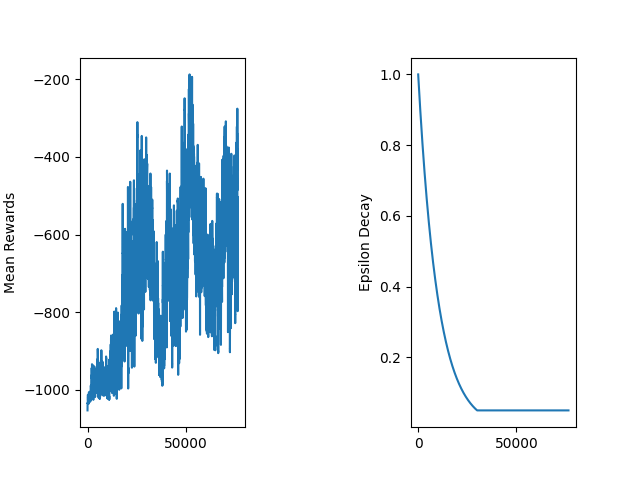
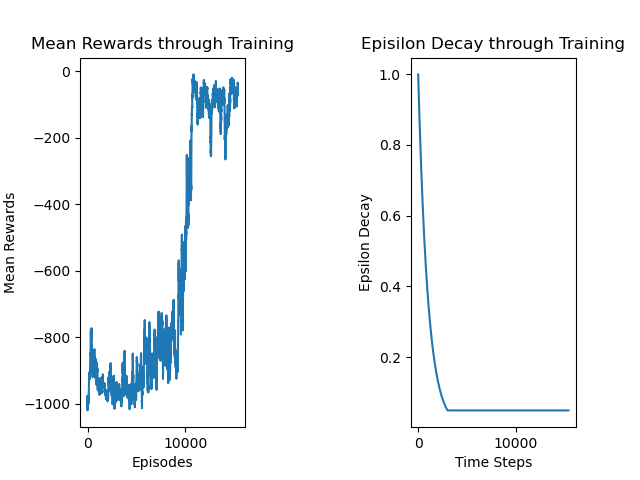
graph and log additions

diff --git a/agent.py b/agent.py
@@ -68,8 +68,12 @@ class Agent():
         self.LOG_FILE   = os.path.join(RUNS_DIR, f'{self.hyperparameter_set}.log')
         self.MODEL_FILE = os.path.join(RUNS_DIR, f'{self.hyperparameter_set}.pt')
         self.GRAPH_FILE = os.path.join(RUNS_DIR, f'{self.hyperparameter_set}.png')
+        self.GRAPH_FILE_DELAYED = os.path.join(RUNS_DIR, f'{self.hyperparameter_set}.jpg') #new
 
     def run(self, is_training=True, render=False):
+        episode_num = 0         #track number of episodes new
+        episode_sucess = 0      #track number of agent successes new
+
         if is_training:
             start_time = datetime.now()
             last_graph_update_time = start_time
@@ -117,12 +121,14 @@ class Agent():
 
             # Track best reward
             best_reward = -9999999
+            worst_reward = 9999999
         else:
             # Load learned policy
             policy_dqn.load_state_dict(torch.load(self.MODEL_FILE))
 
             # switch model to evaluation mode
             policy_dqn.eval()
+            #target_dqn.eval() new
 
         # Train INDEFINITELY, manually stop the run when you are satisfied (or unsatisfied) with the results
         for episode in itertools.count():
@@ -170,12 +176,22 @@ class Agent():
                 # Move to the next state
                 state = new_state
 
+            #if (episode_reward < -1): #new
+                #episode_reward = -1
+
             print("Episode:",episode,"-",episode_reward)    # Print out every episode and reward
 
             # Keep track of the rewards collected per episode.
             rewards_per_episode.append(episode_reward)
             if not is_training:
                 print("Reward:", episode_reward)
+                episode_num = episode_num + 1
+                if episode_reward > 0:
+                    episode_sucess = episode_sucess + 1
+                print("Success Rate: " + str(episode_sucess) + " / " + str(episode_num))
+
+
+
 
             # Save model when new best reward is obtained.
             if is_training:
@@ -185,8 +201,16 @@ class Agent():
                     with open(self.LOG_FILE, 'a') as file:
                         file.write(log_message + '\n')
 
-                    torch.save(policy_dqn.state_dict(), self.MODEL_FILE)
+                    #torch.save(policy_dqn.state_dict(), self.MODEL_FILE)
                     best_reward = episode_reward
+                
+                if episode_reward < worst_reward:
+                    log_message = f"{datetime.now().strftime(DATE_FORMAT)}: New worst reward {episode_reward:0.1f} ({(episode_reward-worst_reward)/worst_reward*100:+.1f}%) at episode {episode}"
+                    print(log_message)
+                    with open(self.LOG_FILE, 'a') as file:
+                        file.write(log_message + '\n')
+
+                    worst_reward = episode_reward
 
 
                 # Update graph every x seconds
@@ -194,6 +218,7 @@ class Agent():
                 if current_time - last_graph_update_time > timedelta(seconds=10):
                     self.save_graph(rewards_per_episode, epsilon_history)
                     last_graph_update_time = current_time
+                    #print("hi1")
 
                 # If enough experience has been collected
                 if len(memory)>self.mini_batch_size:
@@ -206,8 +231,14 @@ class Agent():
 
                     # Copy policy network to target network after a certain number of steps
                     if step_count > self.network_sync_rate:
+                        print("update step count: " + str(step_count))
+                        #self.save_graph2(rewards_per_episode, epsilon_history)
                         target_dqn.load_state_dict(policy_dqn.state_dict())
                         step_count=0
+                        #print("update") #currently updating every episode
+                        #print("hi2")
+
+                        torch.save(target_dqn.state_dict(), self.MODEL_FILE)
 
 
     def save_graph(self, rewards_per_episode, epsilon_history):
@@ -219,22 +250,55 @@ class Agent():
         for x in range(len(mean_rewards)):
             mean_rewards[x] = np.mean(rewards_per_episode[max(0, x-99):(x+1)])
         plt.subplot(121) # plot on a 1 row x 2 col grid, at cell 1
-        # plt.xlabel('Episodes')
+        plt.xlabel('Episodes')
         plt.ylabel('Mean Rewards')
         plt.plot(mean_rewards)
 
+        #plt.ylabel('Episodic Rewards') # new
+        #plt.plot(rewards_per_episode)  # new
+
+        plt.title("Mean Rewards through Training")
+
         # Plot epsilon decay (Y-axis) vs episodes (X-axis)
         plt.subplot(122) # plot on a 1 row x 2 col grid, at cell 2
-        # plt.xlabel('Time Steps')
+        plt.xlabel('Time Steps')
         plt.ylabel('Epsilon Decay')
         plt.plot(epsilon_history)
+
+        plt.title("Episilon Decay through Training")
 
         plt.subplots_adjust(wspace=1.0, hspace=1.0)
 
         # Save plots
         fig.savefig(self.GRAPH_FILE)
+        #fig.savefig(self.GRAPH_FILE_DELAYED) #new
         plt.close(fig)
 
+    #copy
+    def save_graph2(self, rewards_per_episode, epsilon_history):
+            # Save plots
+            fig = plt.figure(2)
+
+            # Plot average rewards (Y-axis) vs episodes (X-axis)
+            mean_rewards = np.zeros(len(rewards_per_episode))
+            for x in range(len(mean_rewards)):
+                mean_rewards[x] = np.mean(rewards_per_episode[max(0, x-99):(x+1)])
+            plt.subplot(121) # plot on a 1 row x 2 col grid, at cell 1
+            # plt.xlabel('Episodes')
+            plt.ylabel('Mean Rewards')
+            plt.plot(mean_rewards)
+
+            # Plot epsilon decay (Y-axis) vs episodes (X-axis)
+            plt.subplot(122) # plot on a 1 row x 2 col grid, at cell 2
+            # plt.xlabel('Time Steps')
+            plt.ylabel('Epsilon Decay')
+            plt.plot(epsilon_history)
+
+            plt.subplots_adjust(wspace=1.0, hspace=1.0)
+
+            # Save plots
+            fig.savefig(self.GRAPH_FILE_DELAYED) #new
+            plt.close(fig)
 
     # Optimize policy network
     def optimize(self, mini_batch, policy_dqn, target_dqn):

diff --git a/v0_warehouse_robot_env.py b/v0_warehouse_robot_env.py
@@ -108,7 +108,7 @@ class WarehouseRobotEnv(gym.Env):
         truncated = False
         if robot_grid_pos == target_pos:
             terminated = True
-            self.reward += 10
+            self.reward += 10 #10 og
         elif self.num_steps > const.MAX_STEPS:
             self.reward += inv_dist * 10
             self.reward += (alignment-0.5)*2 * 10
